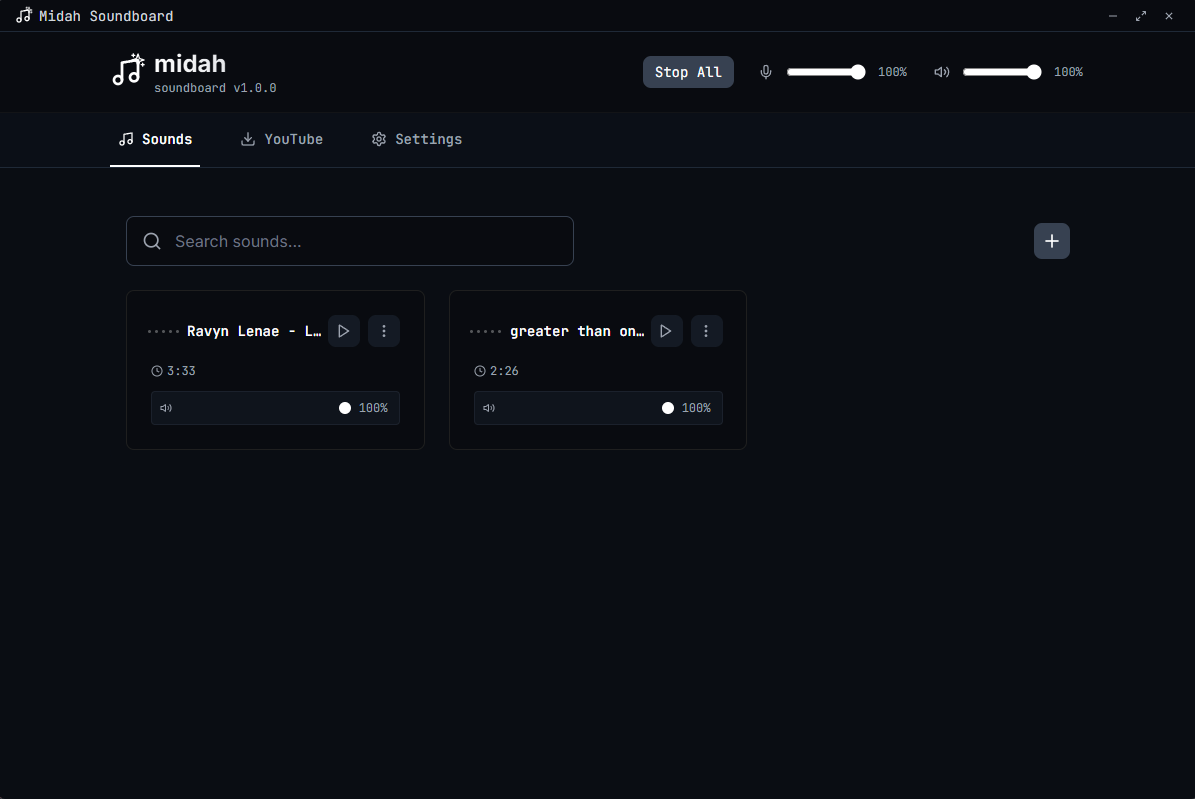
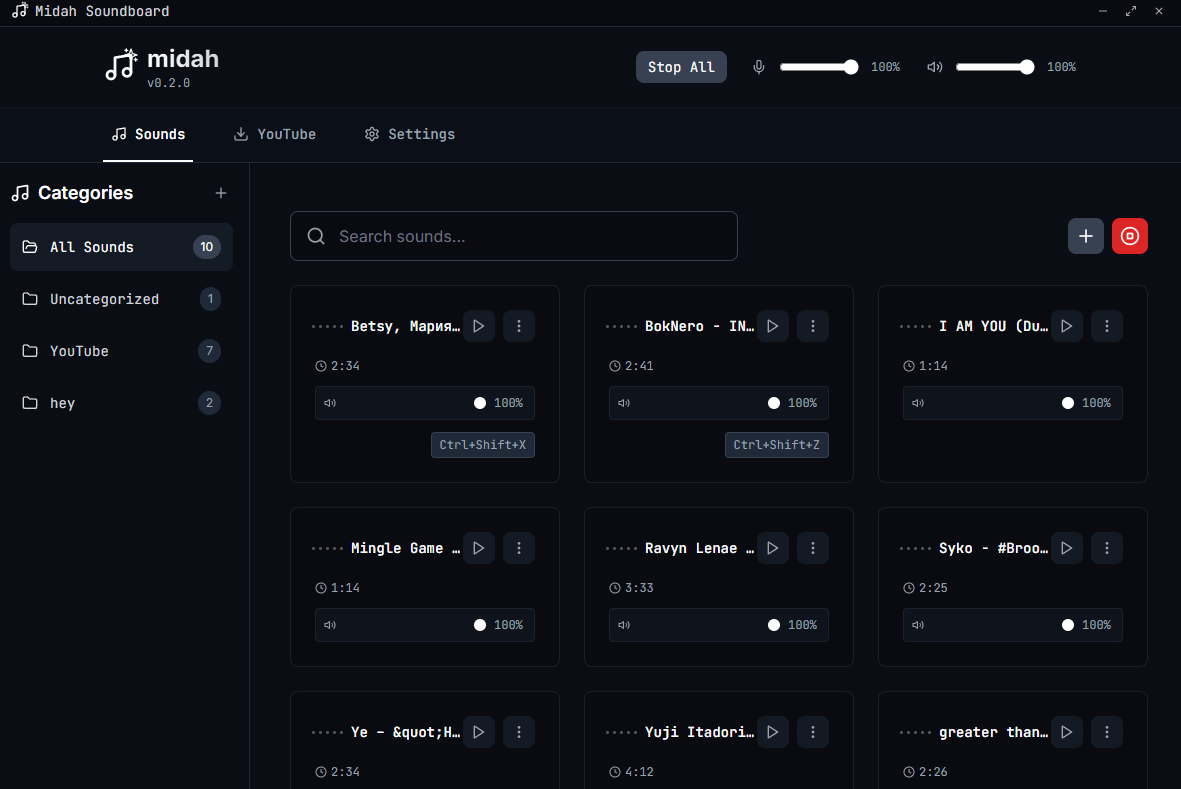
ui improvements

diff --git a/src/App.tsx b/src/App.tsx
@@ -1,5 +1,5 @@
 import { useState, useEffect } from 'react';
-import { Search, Plus, Code, Music, StopCircle } from 'lucide-react';
+import { Search, Plus, Code, Music, StopCircle, X } from 'lucide-react';
 import { TabType, AudioDevice, Hotkey } from './types';
 import { useAudio } from './hooks/useAudio';
 import { useSounds } from './hooks/useSounds';
@@ -397,9 +397,18 @@ function App() {
                         placeholder="Search sounds..."
                         value={searchQuery}
                         onChange={(e) => setSearchQuery(e.target.value)}
-                        className="w-full pl-12 pr-4 bg-[#090b10] text-white border border-gray-700 focus:border-gray-500 focus:ring-gray-500 placeholder-gray-500 rounded-lg py-3 transition-colors duration-200"
+                        className="w-full pl-12 pr-12 bg-[#090b10] text-white border border-gray-700 focus:border-gray-500 focus:ring-gray-500 placeholder-gray-500 rounded-lg py-3 transition-colors duration-200"
                         style={{ lineHeight: '1.5', minHeight: '48px' }}
                       />
+                      {searchQuery && (
+                        <button
+                          onClick={() => setSearchQuery('')}
+                          className="absolute right-4 top-1/2 -translate-y-1/2 h-5 w-5 text-gray-400 hover:text-gray-300 transition-colors duration-200 z-10"
+                          title="Clear search"
+                        >
+                          <X className="h-4 w-4" />
+                        </button>
+                      )}
                     </div>
                   </div>
                   <div className="flex items-center gap-2">

diff --git a/src/components/CategorySidebar.tsx b/src/components/CategorySidebar.tsx
@@ -1,5 +1,5 @@
 import React, { useState } from 'react';
-import { FolderOpen, Folder, Music, Plus } from 'lucide-react';
+import { FolderOpen, Folder, Layers, Plus } from 'lucide-react';
 
 interface CategorySidebarProps {
   categories: string[];
@@ -24,8 +24,8 @@ export const CategorySidebar: React.FC<CategorySidebarProps> = ({
     <div className="w-64 border-r border-gray-800 h-full overflow-y-auto" style={{ background: '#0a0d13' }}>
       <div className="p-4">
         <div className="flex items-center justify-between mb-4">
-          <h3 className="text-lg font-semibold text-white flex items-center space-x-2">
-            <Music className="h-5 w-5" />
+          <h3 className="text-lg font-mono text-white flex items-center space-x-2">
+            <Layers className="h-5 w-5" />
             <span>Categories</span>
           </h3>
           <button

diff --git a/src/components/HotkeySetting.tsx b/src/components/HotkeySetting.tsx
@@ -8,17 +8,6 @@ interface HotkeySettingProps {
   onHotkeyChange: (hotkey: Hotkey | null) => void;
 }
 
-function hotkeyToString(hotkey?: Hotkey): string {
-  if (!hotkey) return '';
-  const mods = [];
-  if (hotkey.modifiers.ctrl) mods.push('Ctrl');
-  if (hotkey.modifiers.alt) mods.push('Alt');
-  if (hotkey.modifiers.shift) mods.push('Shift');
-  if (hotkey.modifiers.meta) mods.push('Meta');
-  if (hotkey.key) mods.push(hotkey.key.toUpperCase());
-  return mods.join('+');
-}
-
 export const HotkeySetting: React.FC<HotkeySettingProps> = ({
   soundId,
   currentHotkey,

diff --git a/README.md b/README.md
@@ -13,6 +13,8 @@
 
 ### Core Features
 
+- **Hotkey System**: Play or stop sounds without even opening the app.
+- **Sound Categorization**: Order your sounds with categories so your app doesn't stay messy.
 - **Playback volume**: Set an output device to hear your own audios. Control output, playback and individual audio volume.
 - **Local-only**: Play audio locally only and don't output it to your mic
 - **VB-Cable Installer**: Midah requires VB-Cable or any virtual cable to work. It provides an installer for VB-Cable in the case that it is not present.
@@ -32,8 +34,6 @@
   <p><em>Search and import audio directly from YouTube videos</em></p>
 </div>
 
-### Notice
-The hotkey feature is still in WIP I am working on it.
 
 ---
 
